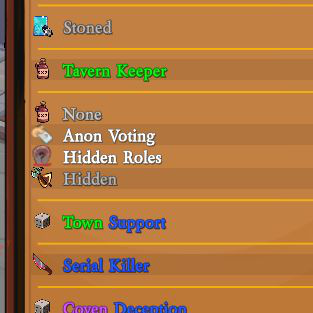
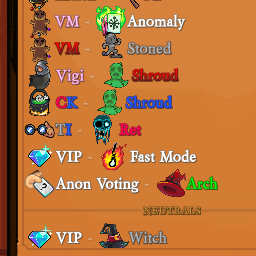
Update to make it work for modern TOS and BTOS

diff --git a/GameBrowserListRandomizer.cs b/GameBrowserListRandomizer.cs
@@ -1,4 +1,6 @@
 using System.Collections.Generic;
+using System.Reflection;
+using System.Linq;
 using HarmonyLib;
 using SML;
 using System;
@@ -7,7 +9,7 @@ using UnityEngine;
 
 using Server.Shared.State;
 using Home.GameBrowser;
-
+using BetterTOS2;
 
 namespace GameBrowserListRandomizer
 {
@@ -31,31 +33,86 @@ namespace GameBrowserListRandomizer
         }
     }
 
-    [HarmonyPatch(typeof(GameBrowserRoleDeck), "GetSortedRoleDeck")]
-    class GetSortedRoleDeck_Patch 
+    [HarmonyPatch(typeof(RoleDeckBuilder), "GetSortedRoleDeckSlots")]
+    class GetSortedRoleDeckSlots_Patch 
     {
-        public static bool Prefix(ref List<Role> __result)
+        public static bool Prefix(ref List<RoleDeckSlot> __result)
         {
-            if (Input.GetKey(KeyCode.LeftShift) || Input.GetKey(KeyCode.RightShift)){
-                return true;
-            }
+            GamePhase gamePhase = Pepper.GetGamePhase();
 
-            List<Role> returnDeck = new List<Role>();
+            if (!ModSettings.GetBool("Randomize In-Game") && (gamePhase == GamePhase.PICK_NAMES || gamePhase == GamePhase.PLAY || gamePhase == GamePhase.CASUAL_VOTE)) return true;
 
+            if (Input.GetKey(KeyCode.LeftShift) || Input.GetKey(KeyCode.RightShift)) return true;
+
+            List<RoleDeckSlot> returnDeck = new List<RoleDeckSlot>();
+            
             System.Random rand = new System.Random();
             Array roles = Enum.GetValues(typeof(Role));
+            Array factions = getFactions();
             int numRoles = ModSettings.GetInt("# of roles in list");
 
             for (int i = 0; i < numRoles; i++)
             {
-                Role randRole = (Role)roles.GetValue(rand.Next(roles.Length));
-                returnDeck.Add(randRole);
+                Role randRole1 = (Role)roles.GetValue(rand.Next(roles.Length));
+                while (!checkRole(randRole1)) randRole1 = (Role)roles.GetValue(rand.Next(roles.Length));
+                Role randRole2 = (Role)roles.GetValue(rand.Next(roles.Length));
+                while (!checkRole(randRole2)) randRole2 = (Role)roles.GetValue(rand.Next(roles.Length));
+                FactionType randFaction1 = (FactionType)factions.GetValue(rand.Next(factions.Length));
+                while (!checkFaction(randFaction1)) randFaction1 = (FactionType)factions.GetValue(rand.Next(factions.Length));
+                FactionType randFaction2 = (FactionType)factions.GetValue(rand.Next(factions.Length));
+                while (!checkFaction(randFaction2)) randFaction2 = (FactionType)factions.GetValue(rand.Next(factions.Length));
+
+                returnDeck.Add(new RoleDeckSlot(randRole1, randRole2, randFaction1, randFaction2));
             }
 
             __result = returnDeck;
 
             return false;
         }
+
+        private static bool checkRole(Role role)
+        {
+            int roleNum = (int)role;
+            if (BTOSInfo.IS_MODDED)
+            {
+                if (btosDisallowedRoles.Contains(roleNum)) return false;
+                if ((int)RolePlus.ROLE_COUNT <= roleNum && roleNum <= 99) return false;
+                if (122 <= roleNum && roleNum <= 249) return false;
+                return true;
+            }
+            if ((int)Role.ROLE_COUNT <= roleNum && roleNum <= 99) return false;
+            if (118 <= roleNum && roleNum <= 200) return false;
+            if (218 <= roleNum && roleNum <= 240) return false;
+            if (242 <= roleNum && roleNum <= 249) return false;
+            return true;
+        }
+
+        private static bool checkFaction(FactionType faction)
+        {
+            int factionNum = (int)faction;
+            if (BTOSInfo.IS_MODDED)
+            {
+                if ((int)FactionTypePlus.FACTION_COUNT <= factionNum) return false;
+                return true;
+            }
+            if (14 <= factionNum) return false;
+            return true;
+        }
+
+        private static Array getFactions()
+        {
+            if (BTOSInfo.IS_MODDED)
+            {
+                return typeof(FactionTypePlus)
+                    .GetFields(BindingFlags.Public | BindingFlags.Static)
+                    .Where(f => f.FieldType == typeof(FactionType))
+                    .Select(f => (FactionType)f.GetValue(null))
+                    .ToArray();
+            }
+            return Enum.GetValues(typeof(FactionType));
+        }
+
+        private static List<int> btosDisallowedRoles = new List<int>(){0, 249, 250, 252, 253, 254, 255};
     }
 
 }

diff --git a/README.md b/README.md
@@ -1,8 +1,10 @@
 # GameBrowserListRandomizer
-A simple Town of Salem 2 mod that randomizes the rolelist in the game browser every time you click it.
+A simple Town of Salem 2 mod that randomizes the rolelist in the game browser, and in-game (if enabled)
 
- - Hold shift while clicking to reveal the actual list
+ - Hold shift while clicking a list to reveal the actual list (not ingame)
  - Change the number of roles in the mod's settings
  - Purely visual ofc, was just made for fun/learning :)
- 
-![Example of random list, we even have None here!](https://doggieli.cc/assets/images/screen.jpg)
+
+> "What the fuck is this?" - a peer
+
+![Example of random list](https://doggieli.cc/assets/images/randomdecks1.png)